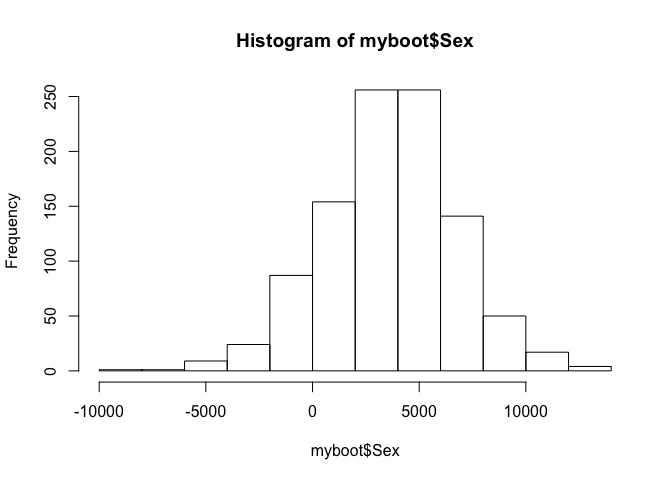
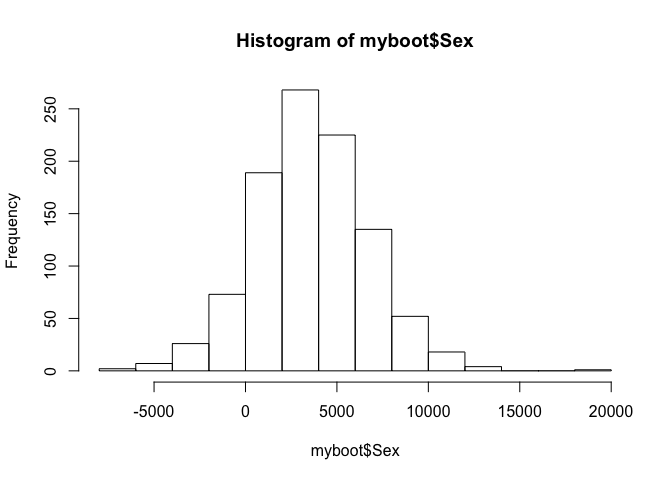
typos

diff --git a/teaching/r/salary/salary.md b/teaching/r/salary/salary.md
@@ -76,8 +76,8 @@ experience?
     ## F-statistic: 11.42 on 1 and 41 DF,  p-value: 0.001605
 
 We expect experienced workers to be paid more, all else being equal. How
-does these residuals---that is, salary adjusted for experience---look
-when we stratify them by sex?
+do these residuals---that is, salary adjusted for experience---look when
+we stratify them by sex?
 
     boxplot(resid(lm1)~salary$Sex)
 
@@ -163,7 +163,7 @@ interval contains zero:
 ### Bootstrapping a multiple regression model
 
 If we don't trust the normality assumptions, we can quantify uncertainty
-about this effect via bootstrapping
+about this effect via bootstrapping:
 
     myboot = do(1000)*{
       lm_boot = lm(Salary~Experience+Education+Sex, data=resample(salary))
@@ -175,11 +175,11 @@ about this effect via bootstrapping
 
     confint(myboot)
 
-    ##         name      lower     upper level method   estimate margin.of.error
-    ## 1  Intercept 30137.1110 55307.580  0.95 stderr 42722.3457      12585.2347
-    ## 2 Experience   214.4115   654.280  0.95 stderr   434.3457        219.9342
-    ## 3  Education  -621.0929  3820.746  0.95 stderr  1599.8267       2220.9196
-    ## 4        Sex -2384.8828  9677.720  0.95 stderr  3646.4185       6031.3014
+    ##         name      lower      upper level method   estimate margin.of.error
+    ## 1  Intercept 29935.1224 55228.3470  0.95 stderr 42581.7347      12646.6123
+    ## 2 Experience   216.7165   643.4637  0.95 stderr   430.0901        213.3736
+    ## 3  Education  -581.5238  3895.3986  0.95 stderr  1656.9374       2238.4612
+    ## 4        Sex -2454.6020  9639.1313  0.95 stderr  3592.2647       6046.8666
 
 In this case, the bootstrapped confidence interval is pretty similar to
 the one we estimate using the normal-theory formulas.
